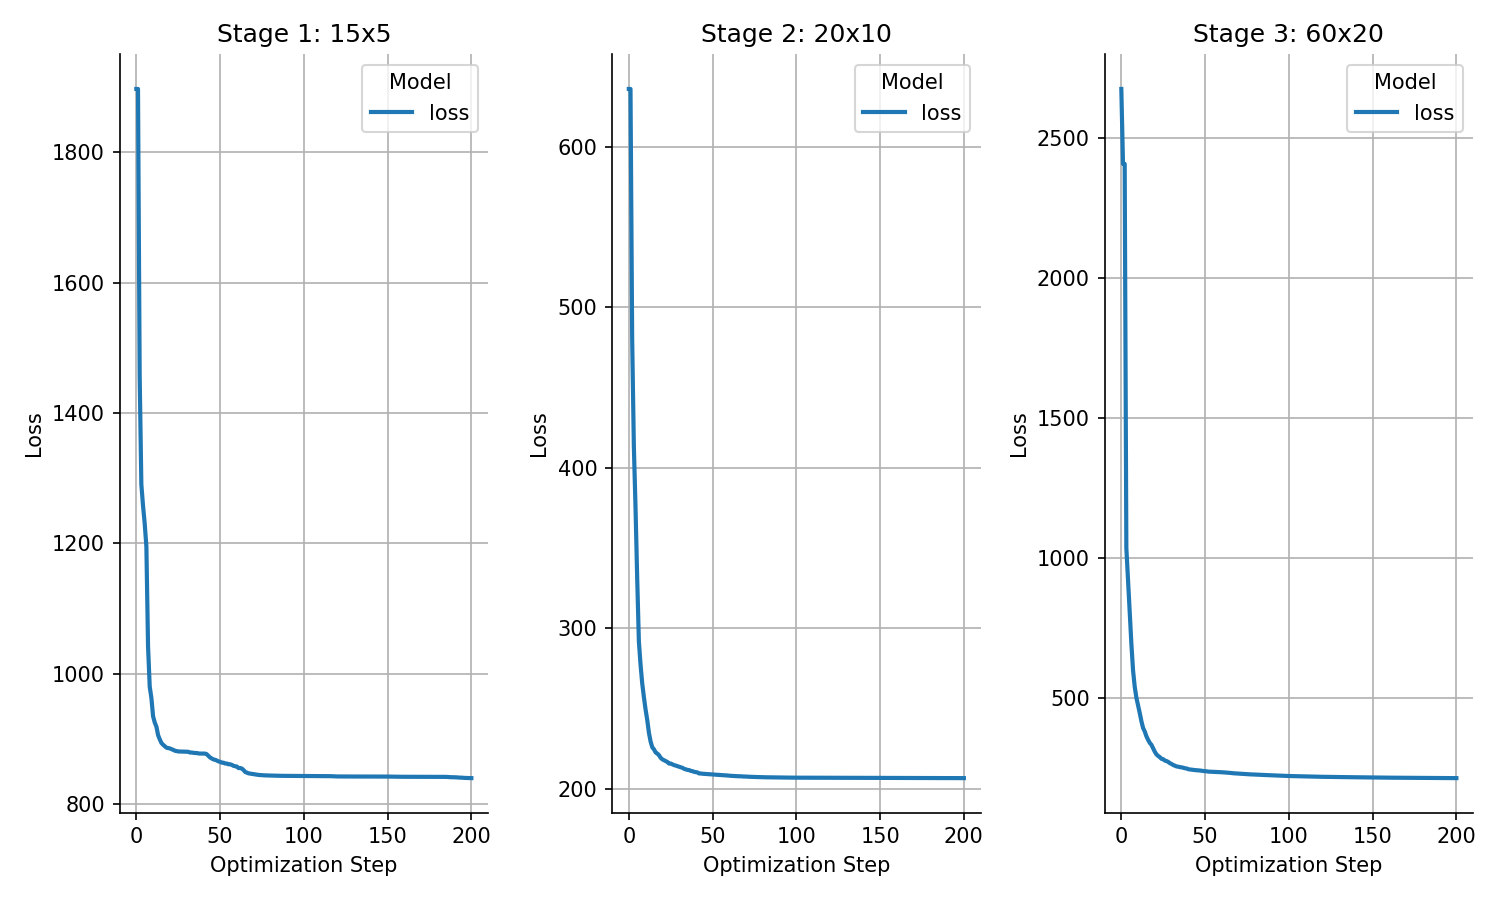
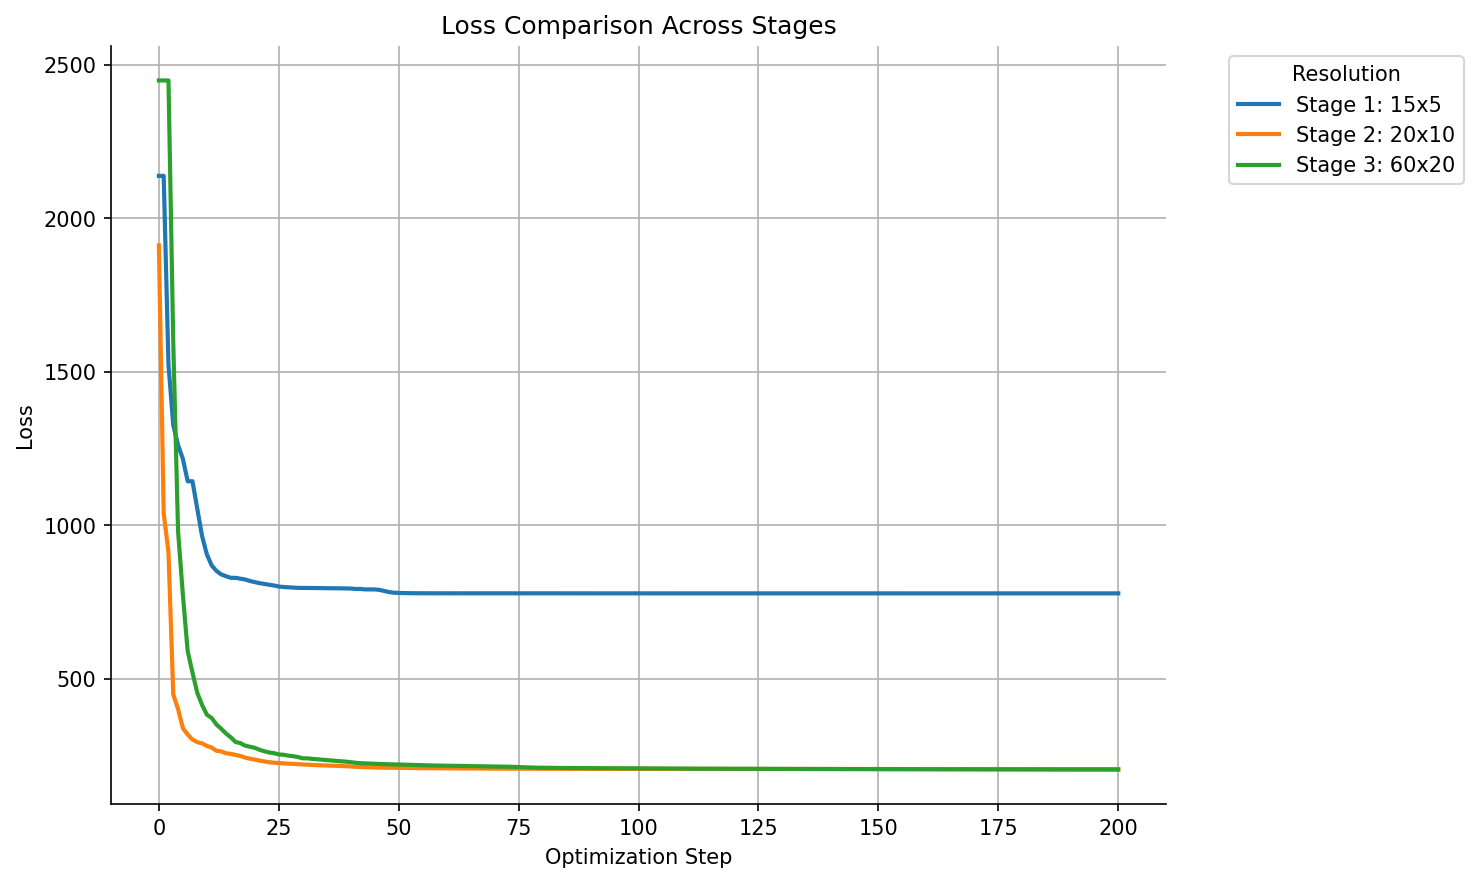
use previous z to initialize higher res optim for cnn
still a little buggy for some resolutions

diff --git a/neural_structural_optimization/train.py b/neural_structural_optimization/train.py
@@ -204,17 +204,22 @@ def adaptive_train_lbfgs(
     z_density = tf.reduce_mean(model.z)
     print(f"Latent vector z density: {z_density:.4f}")
 
-    # if z_init is not None: # project the existing latent vector
-    #   old_shape = z_init.shape[1:]
-    #   new_shape = model.z.shape[1:]
-    #   if old_shape != new_shape:
-    #     z_init_resized = tf.image.resize(
-    #       tf.reshape(z_init, (1, *old_shape, 1)),
-    #       new_shape,
-    #       method='bilinear'
-    #     )
-    #     z_init = tf.reshape(z_init_resized, (1, -1))
-    #   model.z.assign(z_init)
+    if z_init is not None: # project the existing latent vector
+      old_x, old_y = resolutions[i-1]
+      new_x, new_y = resolutions[i]
+
+      old_c = z_init.shape[1] // (old_x * old_y)
+      new_c = model.z.shape[1] // (new_x * new_y)
+
+      if (old_x, old_y) != (new_x, new_y):
+        z_spatial = tf.reshape(z_init, [1, old_y, old_x, old_c])
+        z_resized = tf.image.resize(z_spatial, size=(new_y, new_x), method='bilinear')
+        if old_c != new_c:
+          # Use a 1x1 conv to project channels if needed
+          conv = tf.keras.layers.Conv2D(new_c, kernel_size=1, use_bias=False)
+          z_resized = conv(z_resized)
+        z_init = tf.reshape(z_resized, [1, new_y * new_x * new_c])
+      model.z.assign(z_init)
     
     ds = train_lbfgs(model, max_iter_per_stage)
     ds_history.append(ds)

diff --git a/script/run2.py b/script/run2.py
@@ -77,7 +77,7 @@ def main():
         # model = models.CNNModelDynamic(args=args)
         # ds = train.train_lbfgs(model, max_iterations)
 
-        ds_history = train.adaptive_train_lbfgs(problem, [(5,15),(10,20),(20,60)], max_iterations)
+        ds_history = train.adaptive_train_lbfgs(problem, [(5,15),(20,60),(40,120)], max_iterations)
         if not isinstance(ds_history, list):
             ds_history = [ds_history]
             
